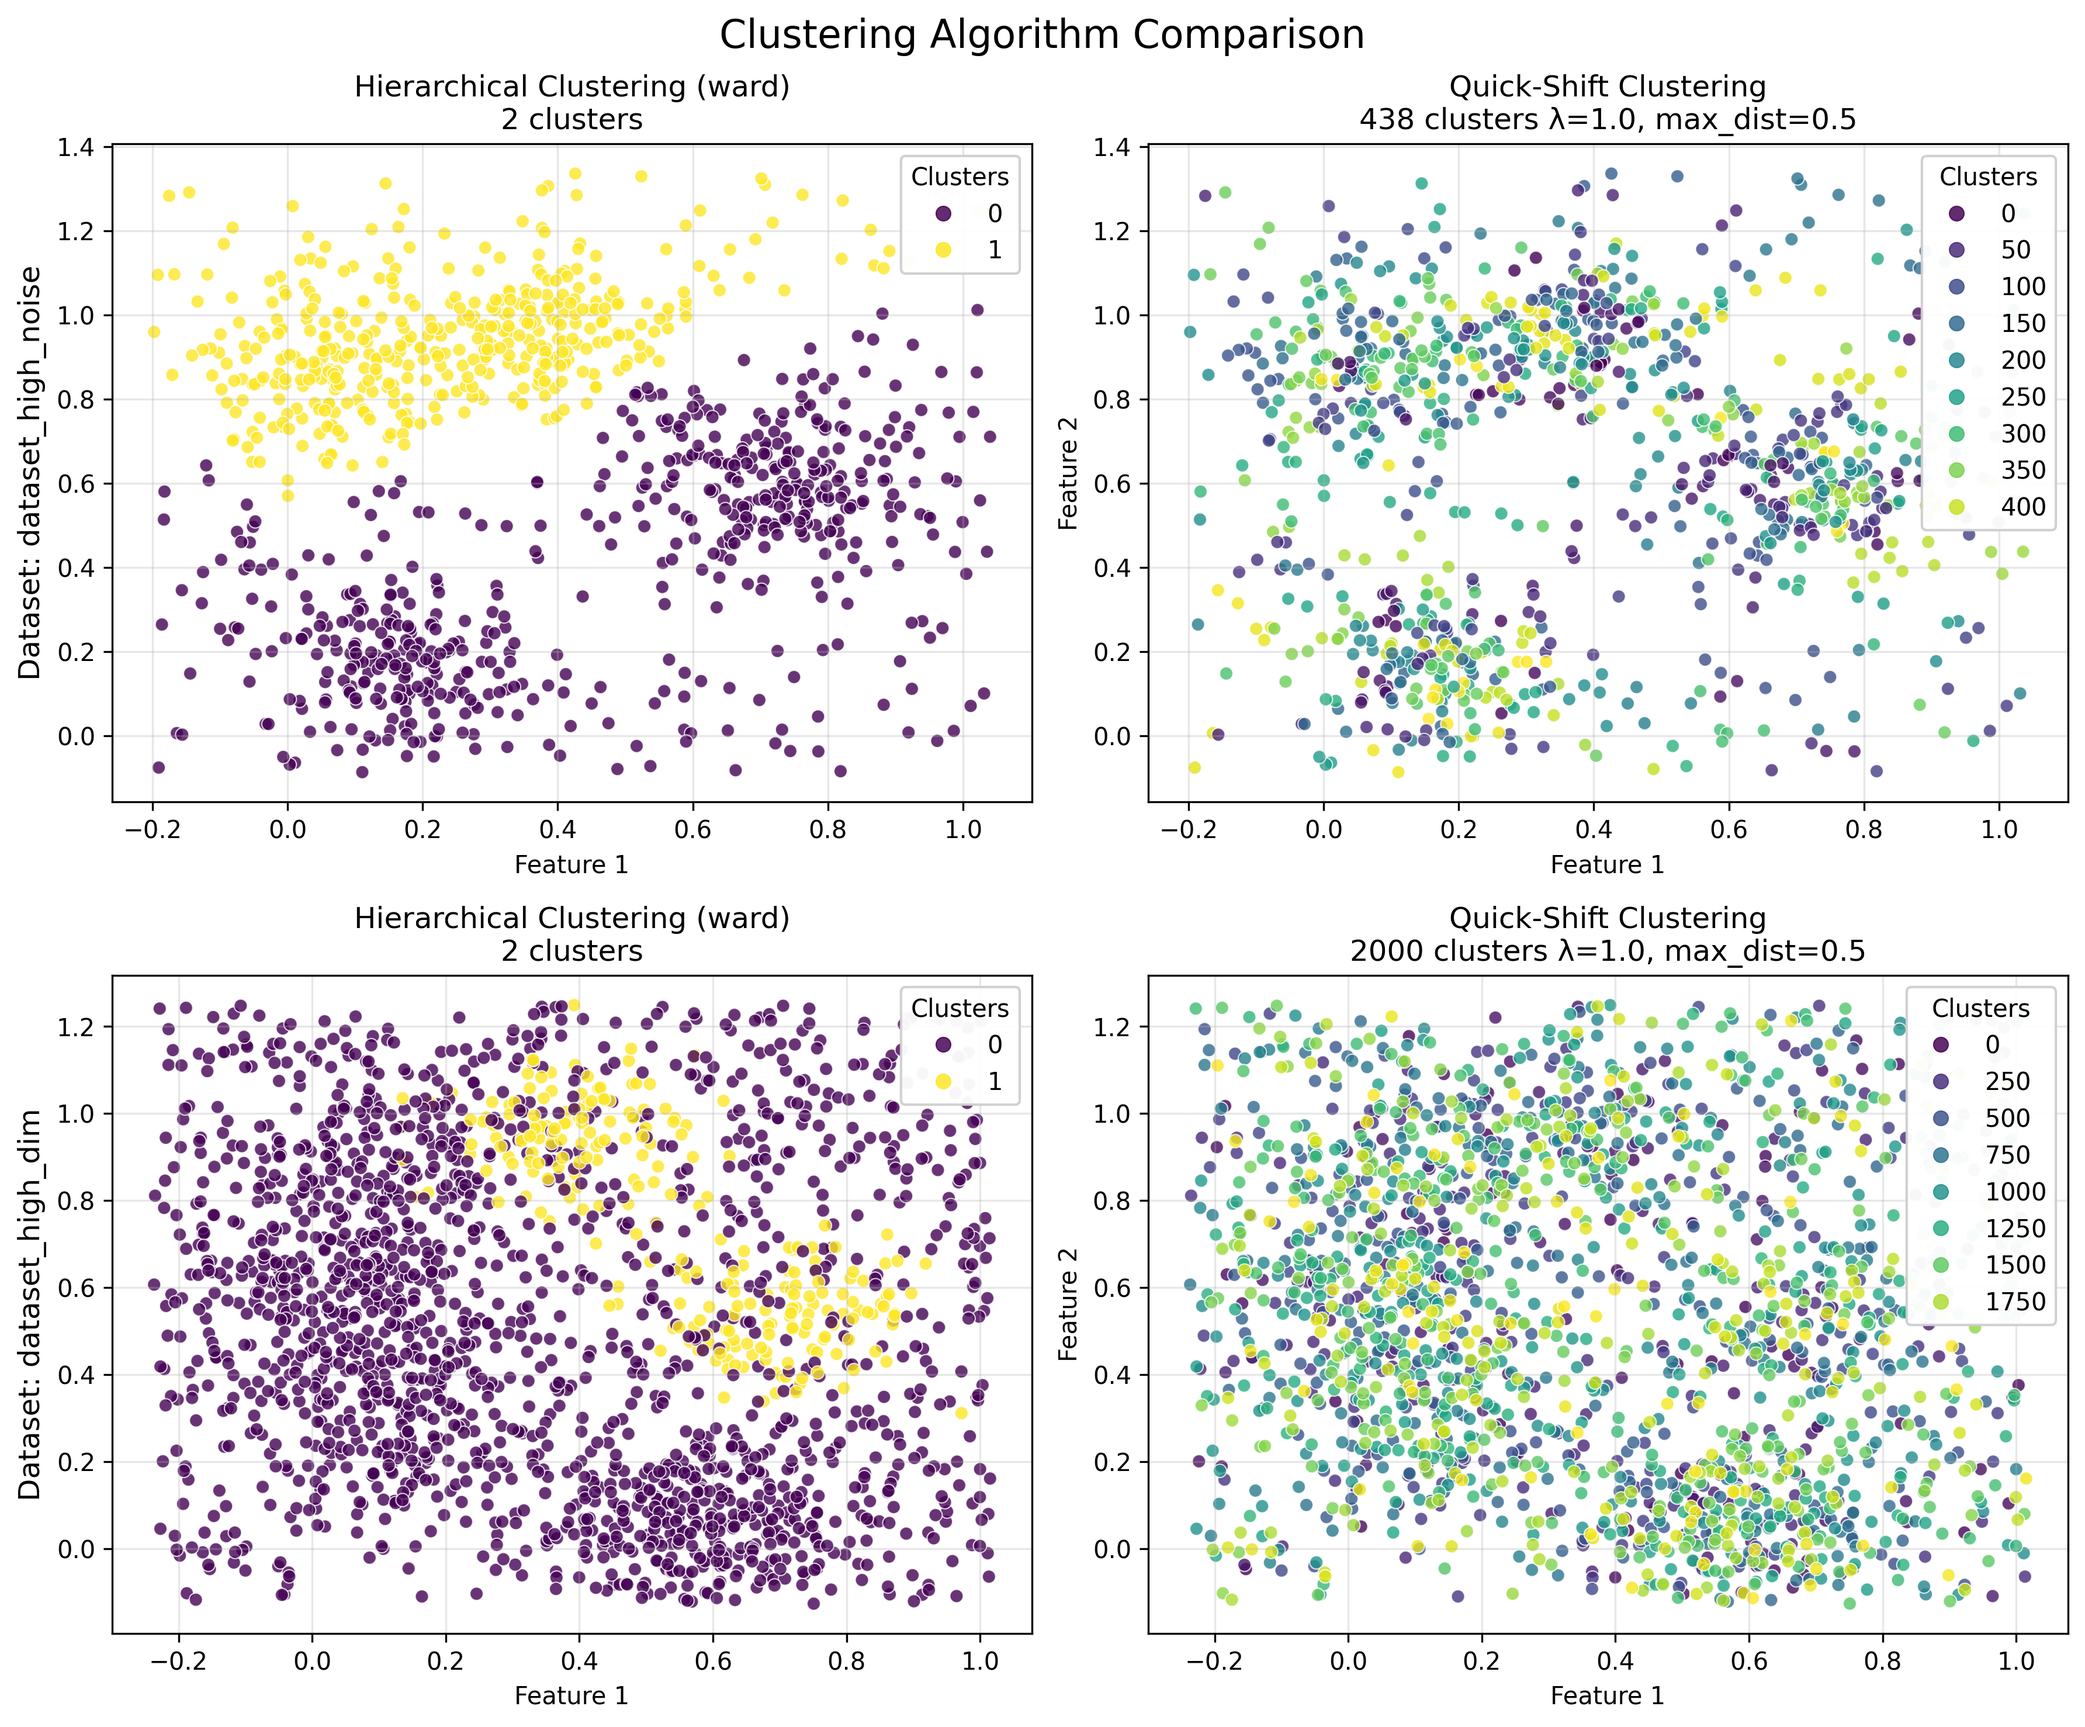
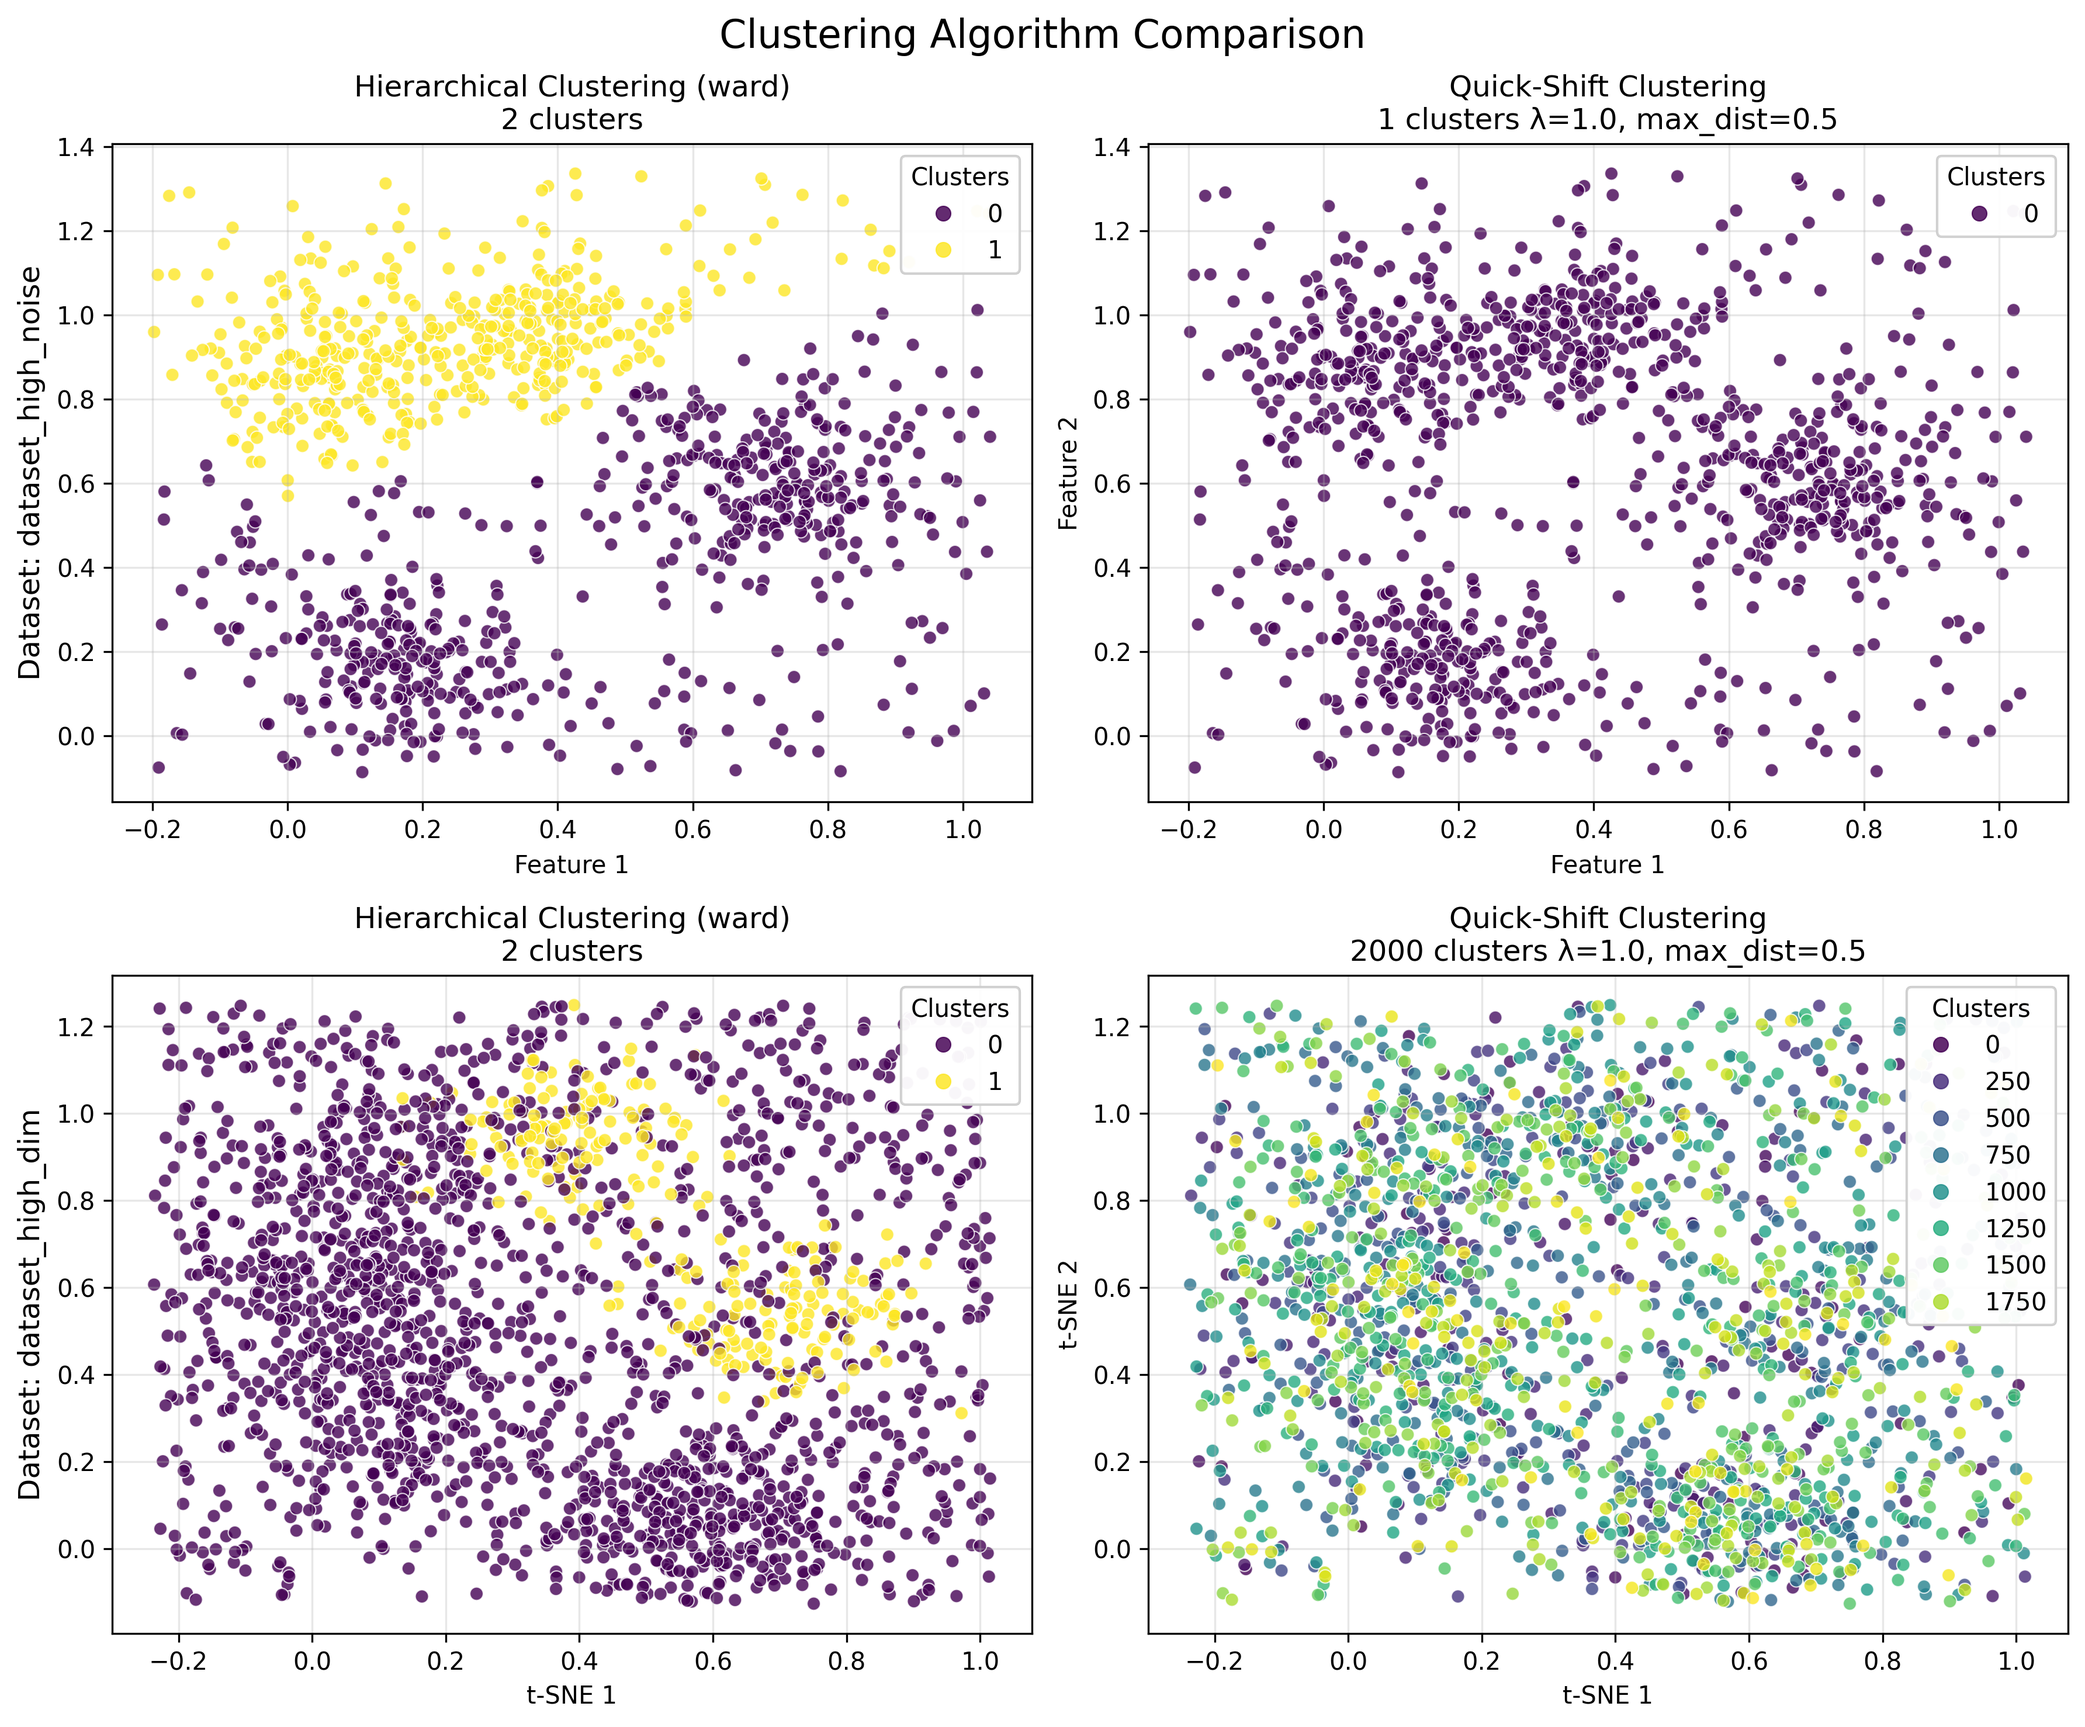
Save examples (4)

diff --git a/examples/data_generator.py b/examples/data_generator.py
@@ -319,7 +319,7 @@ def plot_clusters(
     if title:
         ax.set_title(title)
 
-    if n_dimensions > 2 and use_tsne:
+    if n_dimensions > 2:
         ax.set_xlabel("t-SNE 1")
         ax.set_ylabel("t-SNE 2")
     else:
